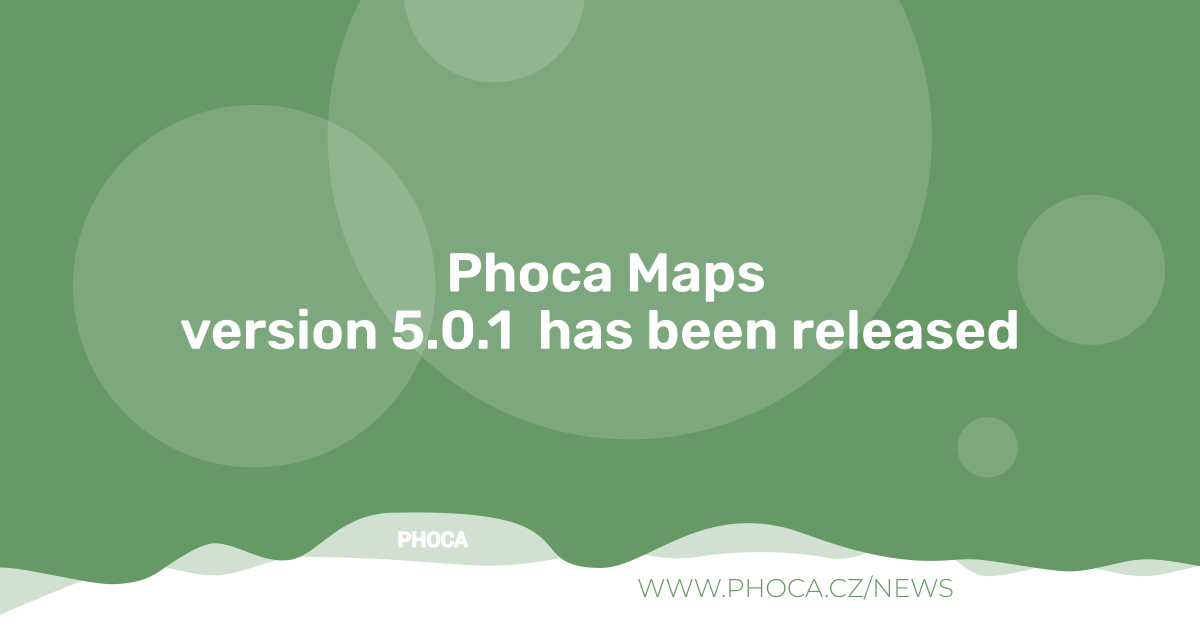
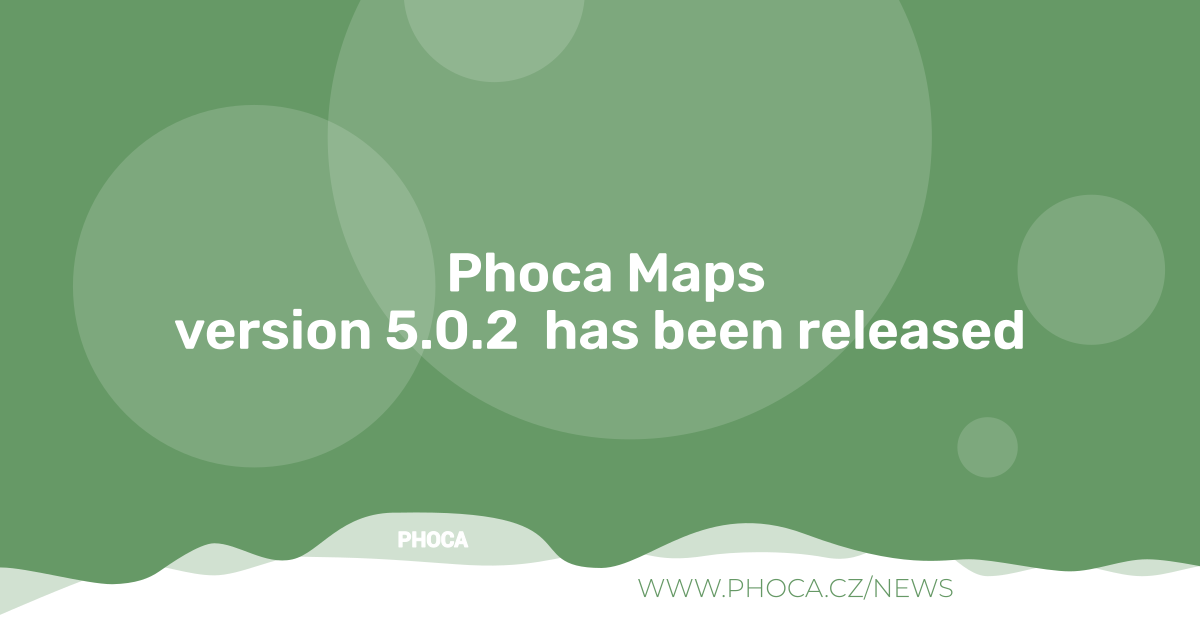
5.0.2

Changed region(s): [[0.1233, 0.4825, 0.8633, 0.573]]

diff --git a/media/css/administrator/theme-dark.css b/media/css/administrator/theme-dark.css
@@ -1,6 +1,9 @@
+/*
 @media (prefers-color-scheme: dark) {
+*/
+[data-bs-theme="dark"] {
 
-    .ph-cpanel-info-box, 
+    .ph-cpanel-info-box,
     .ph-cpanel-tips-box,
     .ph-extension-links-box,
 	.ph-extension-info-box,
@@ -126,7 +129,7 @@
         background: #000;
         color: #fff;
     }
-    
+
     .ph-editinplace-text form {
         background-color: #000;
     }
@@ -142,8 +145,10 @@
 
 /* Select 2 */
 
-
+/*
 @media (prefers-color-scheme: dark) {
+*/
+[data-bs-theme="dark"] {
 
     .select2-container .select2-choice {
         color: #fff;
@@ -300,7 +305,7 @@
 
     .select2-container-multi .select2-choices .select2-search-choice {
         color: #000;
- 
+
     }
 
     .select2-search-choice-close::before {

diff --git a/script.php b/script.php
@@ -271,6 +271,10 @@ class com_phocamapsInstallerScript
 	border-radius: 6px;
 }
 
+.g5-actions a.g5-button {
+	color: #fff;
+}
+
 
 .upBox {
     display: flex;

diff --git a/README.MD b/README.MD
@@ -66,7 +66,7 @@ Phoca Maps is Joomla! CMS component. It displays maps on your site rendered with
 
 ## Version (Joomla! 5.x)
 
-5.0.1
+5.0.2
 
 
 
